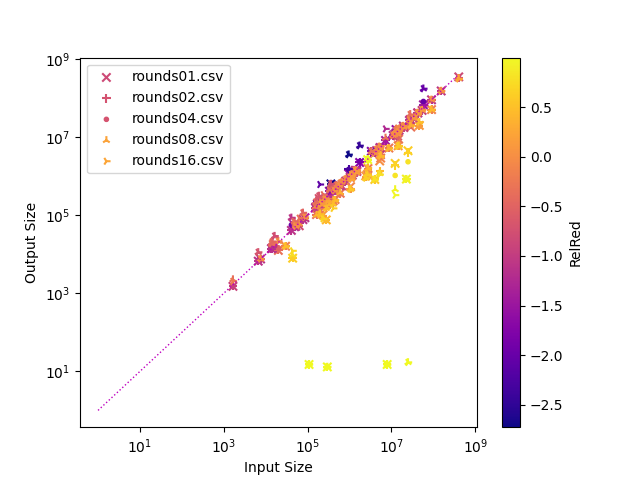
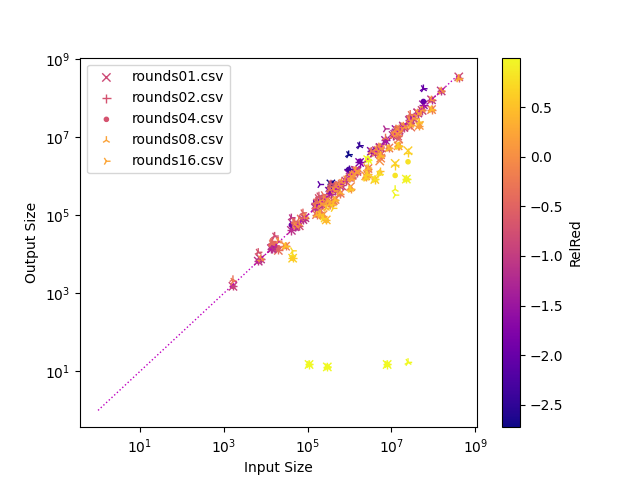
better score3

diff --git a/sat_heuristics/bench/scatter.py b/sat_heuristics/bench/scatter.py
@@ -10,7 +10,7 @@ def scatter(files, cfunc, clabel):
     markers = [ 'x', '+', '.', '2', '4', '_' ]
     for i, file in enumerate(files):
         data = pd.read_csv(file, names=['hash', 'result', 'isize', 'osize', 'time'])
-        plt.scatter(data.iloc[:, 2], data.iloc[:, 3], marker=markers[i % len(markers)], label=file, c=cfunc(data.iloc[:, 2], data.iloc[:, 3], data.iloc[:, 4], data.iloc[:, 1]), cmap='plasma') #cmap='coolwarm')#cmap='gist_heat')
+        plt.scatter(data.iloc[:, 2], data.iloc[:, 3], marker=markers[i % len(markers)], label=file, c=cfunc(data.iloc[:, 2], data.iloc[:, 3], data.iloc[:, 4], data.iloc[:, 1]), cmap='plasma', linewidths=1) #cmap='coolwarm')#cmap='gist_heat')
 
     plt.colorbar(label=clabel, orientation='vertical')
     m = max(data.iloc[:, 2].max(), data.iloc[:, 3].max())
@@ -48,8 +48,8 @@ def score3(isize, osize, time, result):
     # change output size to 1 if instance is solved
     osize = np.where(result != "UNKNOWN", 1, osize)
     # set minimum to -1 and shift by 1 to get values between 0 and 2
-    reduction = (np.maximum(-1, (1 - (osize / isize))) + 1)
-    return reduction * np.log(isize) / (np.log(time + 1) + 1)
+    reduction = (np.maximum(-1, (1 - np.power((osize / isize), np.log(isize)))) + 1)
+    return reduction / (np.log(time + 1) + 1)
 
 def main():
     parser = argparse.ArgumentParser(description='Process CSV files.')
